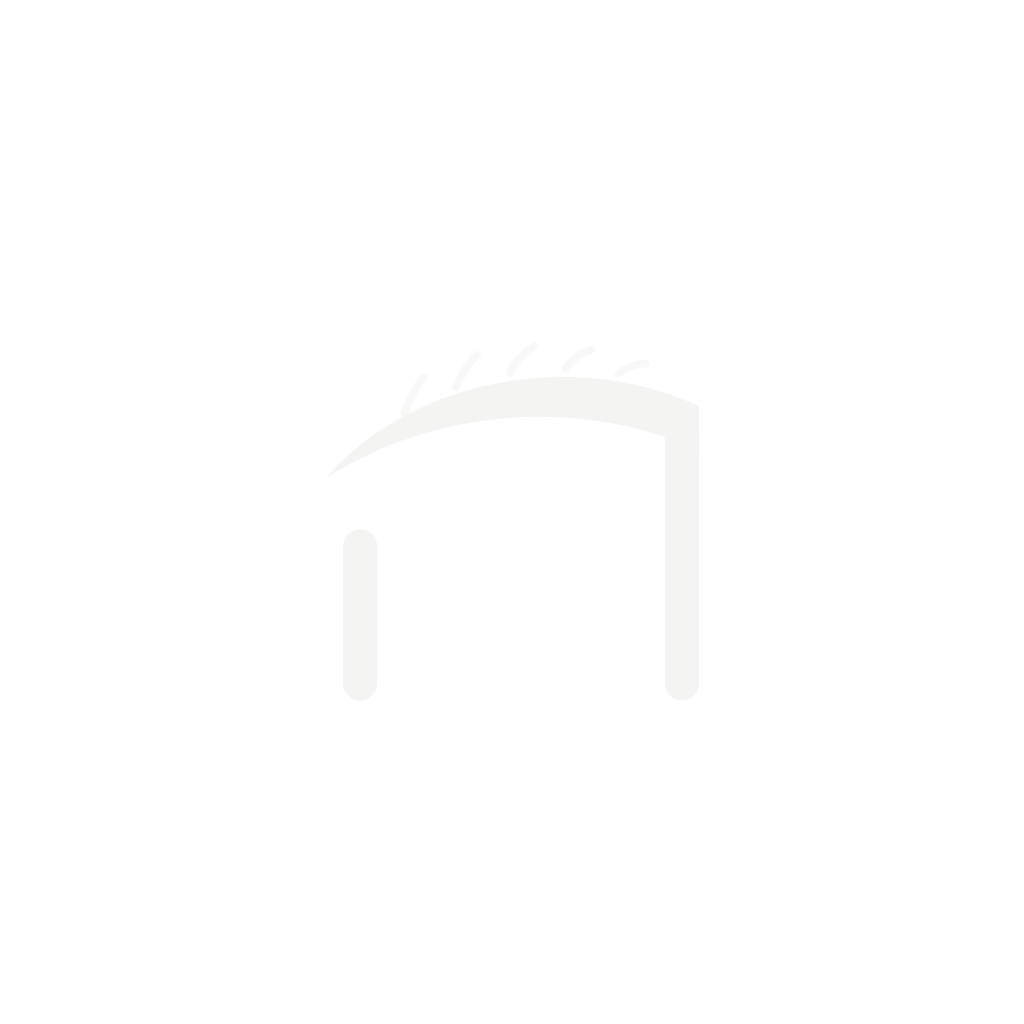
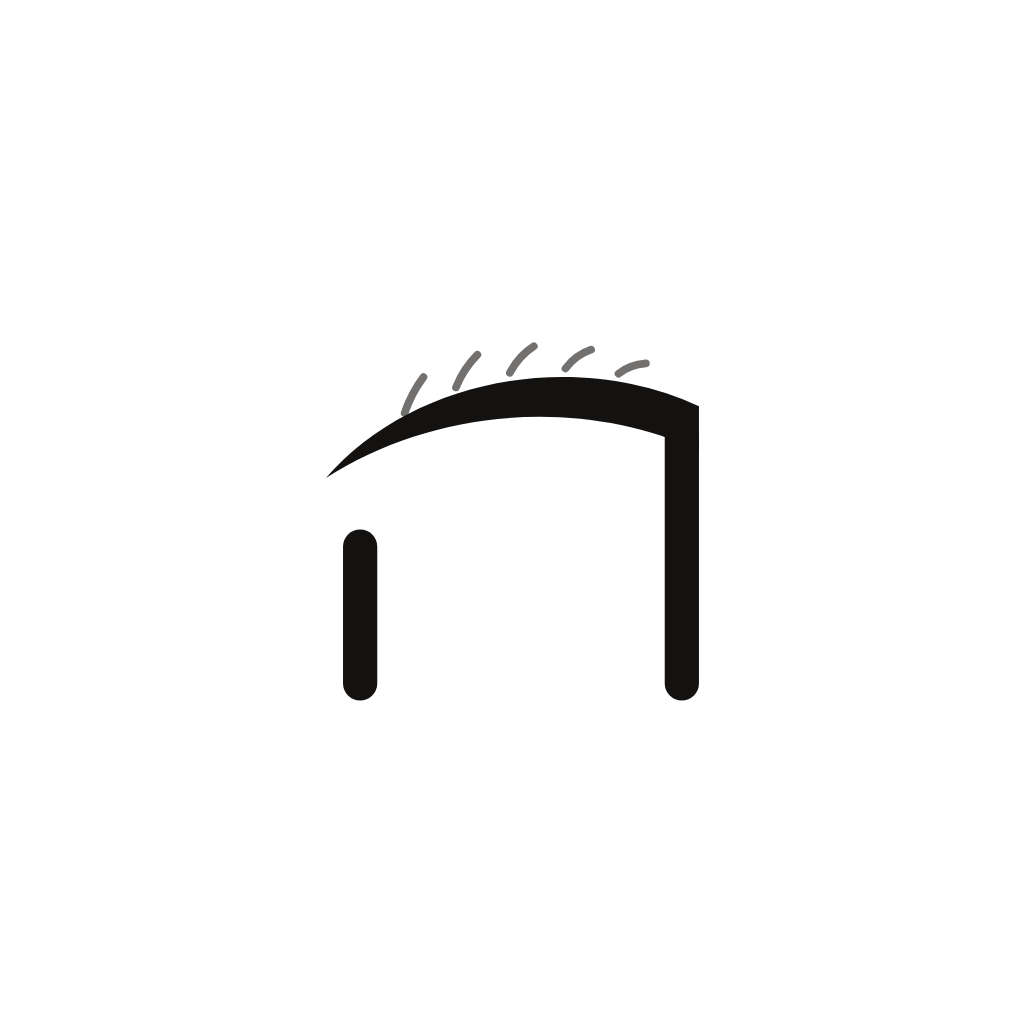
Switch to the porcelain palette
- Porcelain (warm off-white with black ink) is the studio's palette
- Light native config: status bar, splash and Android icon background
- App icon, splash and favicon regenerated as a black mark on porcelain
  (the dark version is kept as assets/brand/app-icon-dark.png)

Claude-Session: https://claude.ai/code/session_01HKP3GvjQjpY87JkpzpYEgg

Changed region(s): [[0.3125, 0.3125, 0.6875, 0.6875], [0.3125, 0.5, 0.375, 0.6875]]

diff --git a/assets/brand/render.js b/assets/brand/render.js
@@ -1,18 +1,19 @@
 const { chromium } = require('playwright'); const fs = require('fs');
 const mark = fs.readFileSync(__dirname + '/mark.svg', 'utf8').replace(/<!--[\s\S]*?-->/g, '');
-const markWhite = mark; const markBlack = mark.replace(/#F4F4F2/g, '#0A0A0A');
+const markWhite = mark; const markBlack = mark.replace(/#F4F4F2/g, '#141210');
 const page = (body, size, bg) => `<html><body style="margin:0;width:${size}px;height:${size}px;background:${bg};display:flex;align-items:center;justify-content:center">${body}</body></html>`;
 const wrap = (svg, pct) => `<div style="width:${pct}%;height:${pct}%">${svg.replace('<svg ', '<svg width="100%" height="100%" ')}</div>`;
 (async () => {
   const b = await chromium.launch(); const out = process.argv[2];
   const jobs = [
-    ['icon.png', 1024, '#0A0A0A', wrap(markWhite, 92)],
-    ['android-icon-foreground.png', 1024, 'transparent', wrap(markWhite, 62)],
-    ['android-icon-background.png', 1024, '#0A0A0A', ''],
+    // Porcelain palette: black ink mark on warm off-white.
+    ['icon.png', 1024, '#F5F3EF', wrap(markBlack, 92)],
+    ['android-icon-foreground.png', 1024, 'transparent', wrap(markBlack, 62)],
+    ['android-icon-background.png', 1024, '#F5F3EF', ''],
     ['android-icon-monochrome.png', 1024, 'transparent', wrap(markWhite, 62)],
-    ['splash-icon.png', 512, 'transparent', wrap(markWhite, 100)],
-    ['favicon.png', 96, '#0A0A0A', wrap(markWhite, 100)],
-    ['preview-light.png', 512, '#F4F4F2', wrap(markBlack, 90)],
+    ['splash-icon.png', 512, 'transparent', wrap(markBlack, 100)],
+    ['favicon.png', 96, '#F5F3EF', wrap(markBlack, 100)],
+    ['app-icon-dark.png', 1024, '#0A0A0A', wrap(markWhite, 92)],
   ];
   for (const [name, size, bg, body] of jobs) {
     const p = await b.newPage({ viewport: { width: size, height: size } });

diff --git a/src/theme.ts b/src/theme.ts
@@ -28,7 +28,7 @@ type Palette = {
 
 /**
  * Colour palettes. They share one structure, so switching palette restyles the
- * whole app. Pick one with EXPO_PUBLIC_THEME (default: "mono").
+ * whole app. Pick one with EXPO_PUBLIC_THEME (default: "porcelain", the studio's choice).
  *
  * Built on the studio's black-and-white identity: a near-black (never pure #000,
  * which looks harsh on OLED) with warm off-white text, one accent colour at most,
@@ -136,7 +136,7 @@ export const palettes = {
 export type ThemeName = keyof typeof palettes;
 
 const requested = process.env.EXPO_PUBLIC_THEME as ThemeName | undefined;
-export const themeName: ThemeName = requested && requested in palettes ? requested : 'mono';
+export const themeName: ThemeName = requested && requested in palettes ? requested : 'porcelain';
 
 export const colors: Palette = palettes[themeName];
 

diff --git a/README.md b/README.md
@@ -83,7 +83,7 @@ supabase/           מבנה מסד הנתונים, כללי אבטחה ופונ
 
 ## פלטות צבע
 
-`EXPO_PUBLIC_THEME` בוחר פלטה: `mono` (ברירת מחדל), `gold`, `nude`, `porcelain`. ההגדרות ב־`src/theme.ts`.
+`EXPO_PUBLIC_THEME` בוחר פלטה: `porcelain` (הנבחרת, ברירת מחדל), `mono`, `gold`, `nude`. ההגדרות ב־`src/theme.ts`.
 
 ## אפליקציה לסטודיו אחד
 
